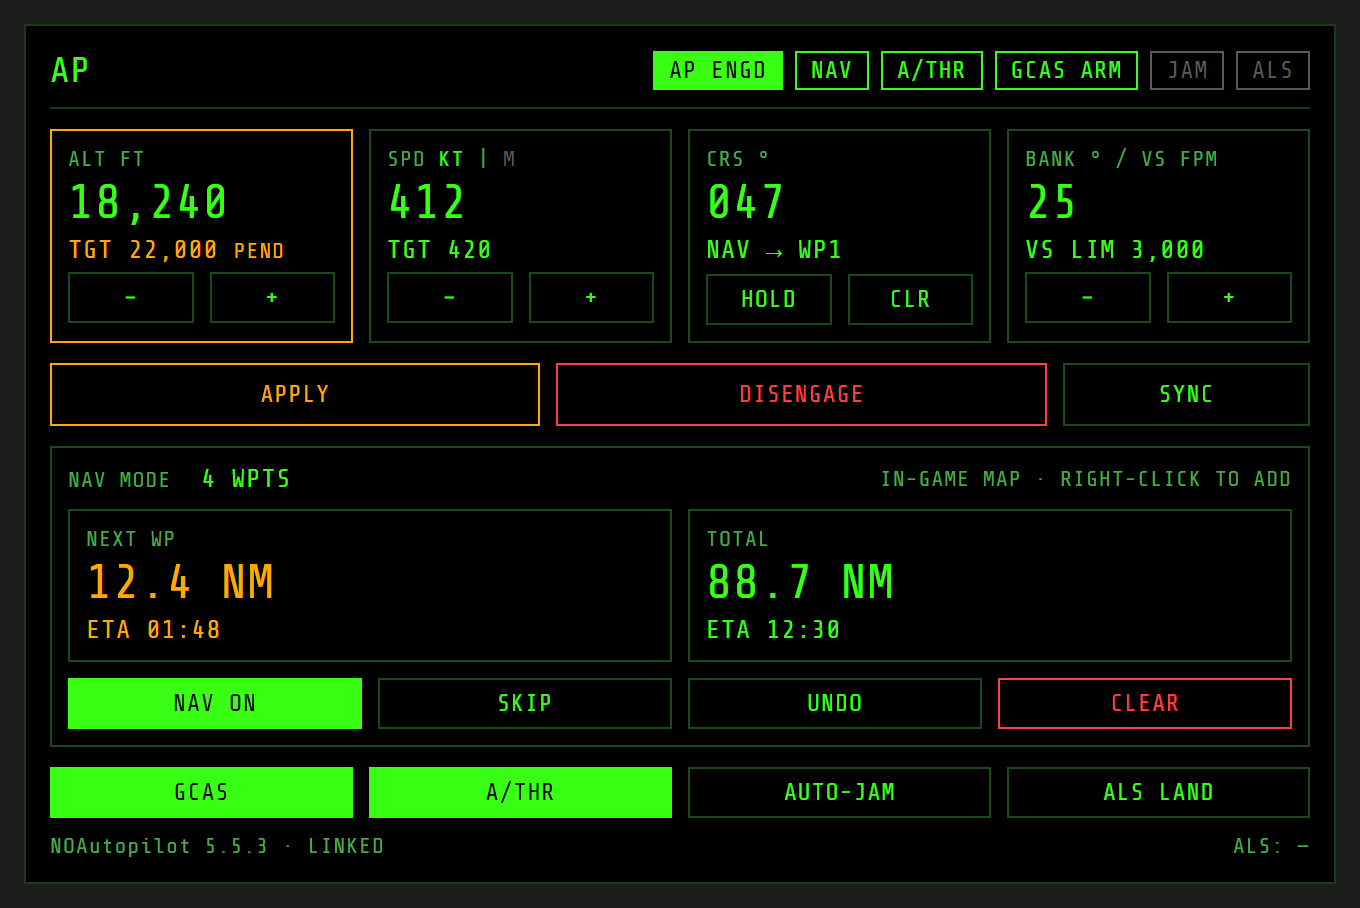
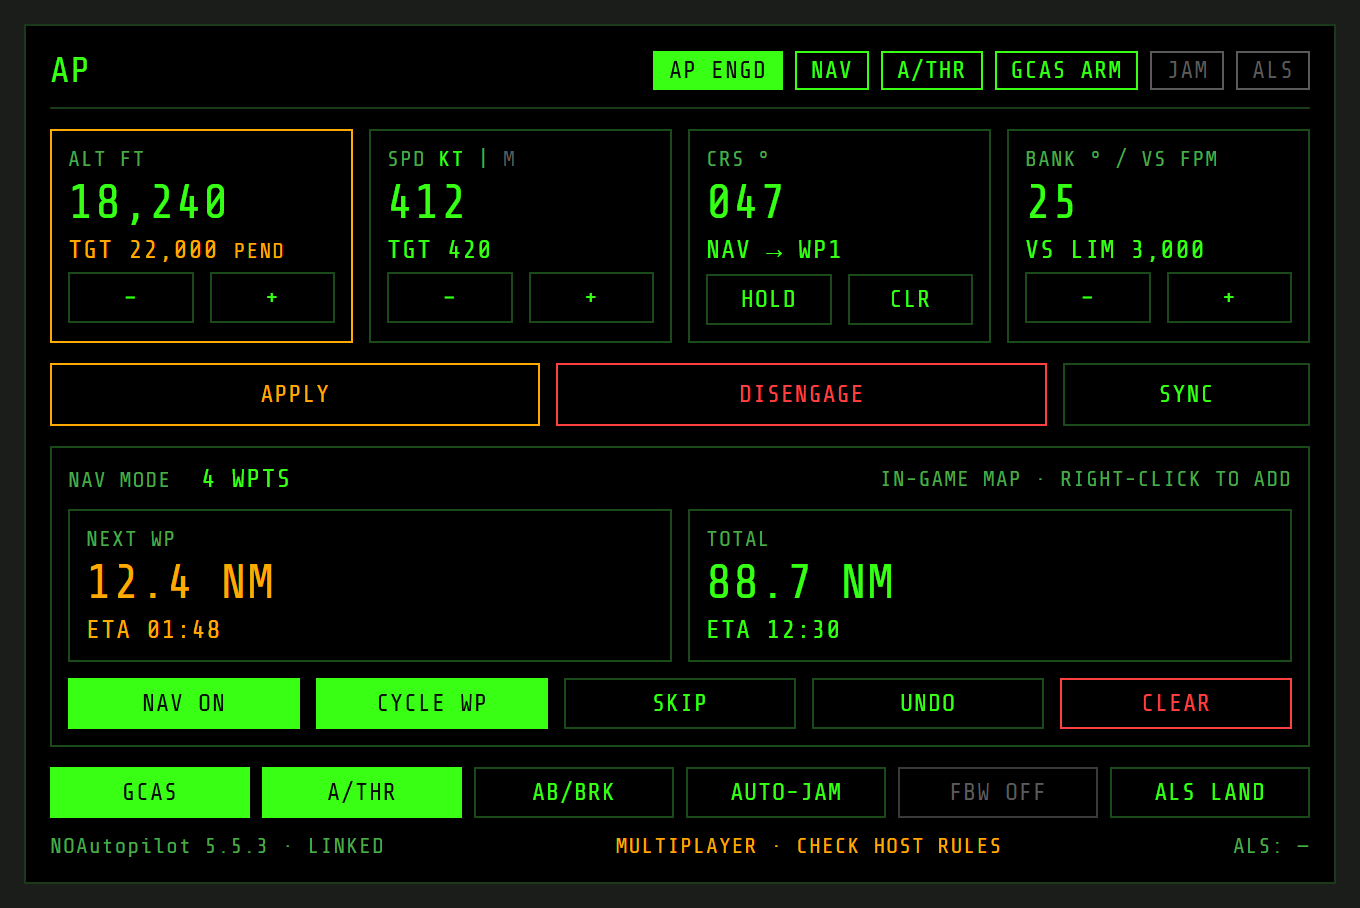
Resolve the plan's open questions and update both mockups

diff --git a/docs/noautopilot-plan.md b/docs/noautopilot-plan.md
@@ -57,6 +57,10 @@ the extension still loads when it's absent or has changed shape.
 | Nav mode | `APData.NavEnabled`, `APData.NavQueue` (`List<Vector3>`, global coordinates) | read, write `NavEnabled`, remove entries | 1 |
 | GCAS | `APData.GCASEnabled`, `GCASWarning`, `GCASActive` | read, write `GCASEnabled` | 1 |
 | Auto-jammer | `APData.AutoJammerActive` | read/write | 1 |
+| Afterburner/airbrake for autothrottle | `APData.AllowExtremeThrottle` (F8's `AB0`/`AB1`) | read/write | 1 |
+| FBW disabler | `APData.FBWDisabled`, then `Plugin.UpdateFBWState()` (public static); single player only | read/write | 1 |
+| Cycle wp | `Plugin.NavCycle` (public static `ConfigEntry<bool>`, persisted to NOAutopilot's `.cfg`) | read/write | 1 |
+| Multiplayer check | `Plugin.IsMultiplayer()` (public static) | read | 1 |
 | ALS | `APData.ALSActive`, `ALSStatusText` | read | 1 |
 | Start autoland | `Plugin.StartAutoland()` | **private**, reflection only | 1 |
 | Refresh F8 window and map markers | `Plugin.SyncMenuValues()`, `Plugin.RefreshNavVisuals()` | public static | 1 |
@@ -78,8 +82,8 @@ Two NOAutopilot behaviors shape the design:
 ## Prototype mockups
 
 Early prototypes of the page, one per phase, in NOXMFD's own theme (HUD green, amber for
-pending/selected, Share Tech Mono). Values are illustrative. The two differ only in the middle
-panel: Phase 1 shows NOAutopilot's own nav mode, Phase 2 replaces it with the coupled WPT route.
+pending/selected, Share Tech Mono). Values are illustrative, and both show a multiplayer session
+(FBW OFF greyed out, host-rules note in the footer). The two differ only in the middle panel: Phase 1 shows NOAutopilot's own nav mode, Phase 2 replaces it with the coupled WPT route.
 Each is shown under its phase below.
 
 ## Phase 1 — AP page
@@ -103,12 +107,20 @@ Page layout, top to bottom:
    copies the F8 button's side effects. SYNC loads current altitude, speed and course into the
    pending targets.
 4. **Nav mode panel.** NOAutopilot's own waypoint queue, as placed on the in-game map: NAV on/off,
-   waypoint count, distance and ETA to the next point, total distance, and SKIP (drop the next
-   point), UNDO (drop the last point), and CLEAR, matching the F8 window's buttons. Points are still
-   placed on the in-game map through NOAutopilot itself.
-5. **System toggles.** GCAS, A/THR, AUTO-JAM, ALS LAND (two-tap confirm), and the ALS status text.
+   CYCLE WP, waypoint count, distance and ETA to the next point, total distance, and SKIP (drop the
+   next point), UNDO (drop the last point), and CLEAR, matching the F8 window's controls. Points are
+   still placed on the in-game map through NOAutopilot itself. CYCLE WP writes NOAutopilot's own
+   config entry, so it persists exactly as it does from F8.
+5. **System toggles.** GCAS, A/THR, AB/BRK (let the autothrottle use afterburner and airbrake),
+   AUTO-JAM, FBW OFF, and ALS LAND (two-tap confirm), plus the ALS status text. FBW OFF is greyed
+   out in multiplayer, where NOAutopilot refuses it.
 6. **Footer.** NOAutopilot version and link state: `LINKED`, `NOT INSTALLED`, or `INCOMPATIBLE`.
-   With NOAutopilot missing or incompatible, the controls are greyed out and the page says why.
+   With NOAutopilot missing or incompatible, the controls are greyed out and the page says why. In
+   a multiplayer session, a `MULTIPLAYER · CHECK HOST RULES` note sits in the footer.
+
+The page works alongside NOAutopilot's F8 window with no lock or notice: both edit the same
+`APData`, the page always shows the live values, and the page calls `SyncMenuValues()` after each
+write so F8 shows the page's edits too.
 
 Suggested build order within Phase 1:
 
@@ -116,15 +128,16 @@ Suggested build order within Phase 1:
    showing annunciators, current/target values, nav queue state, and link state. This proves
    reflection against the live game with no way to affect the aircraft.
 2. **Controls.** Target tiles with pending/APPLY, engage/disengage, SYNC, KT/M, the nav panel's
-   buttons, the GCAS/A/THR/AUTO-JAM toggles, and ALS LAND through the private `StartAutoland`.
+   buttons and CYCLE WP, the GCAS/A/THR/AB/BRK/AUTO-JAM/FBW OFF toggles, and ALS LAND through the
+   private `StartAutoland`.
 
 ## Phase 2 — NOXMFD integration
 
 ![AP page mockup, Phase 2](images/ap-page-mockup-phase2.png)
 
-Goal: tie the autopilot into NOXMFD's own features. The first item is flying NOXMFD's WPT route;
-the page's nav panel gains the WPT route view and COUPLE/DIRECT-TO/LOOP/DECOUPLE from the mockup.
-Further integration candidates are open (see [Open questions](#open-questions)).
+Goal: tie the autopilot into NOXMFD's own features. Two items are planned: flying NOXMFD's WPT
+route (the page's nav panel gains the WPT route view and COUPLE/DIRECT-TO/LOOP/DECOUPLE from the
+mockup), and drawing NOAutopilot's own nav queue on NOXMFD's MAP.
 
 ### Route coupling
 
@@ -142,13 +155,27 @@ sync.
   the queue length also handles "Cycle wp" re-appending.
 - **Direct-to**: `SetActiveRouteNextIndex(i)`, then the re-sync does the rest. The HUD waypoint cue
   and WPT page follow automatically.
-- **Loop**: when NOXMFD reports the route complete (`NextIndex == Points.Length`) with LOOP on,
-  `SetActiveRouteNextIndex(0)`.
+- **Loop**: while coupled, the nav panel's CYCLE WP toggle becomes LOOP. When NOXMFD reports the
+  route complete (`NextIndex == Points.Length`) with LOOP on, the extension calls
+  `SetActiveRouteNextIndex(0)`. NOAutopilot's own Cycle wp is held off while coupled and restored
+  to the pilot's setting on decouple and on plugin shutdown, since `Plugin.NavCycle` persists to
+  NOAutopilot's config file.
 - **Decouple**: clear `NavQueue`, set `NavEnabled = false`, and leave NOXMFD's route alone.
 - **Altitude**: NOXMFD waypoints have no altitude. Queue points take the current target altitude
   (`TargetAlt`, or current altitude if none), and nav steers laterally only.
 - **Map edits**: while coupled, a right-click waypoint on NOAutopilot's map is overwritten on the
   next re-sync. The page shows this (decision 3).
+
+### Nav queue on NOXMFD's MAP
+
+When not coupled, NOAutopilot flies waypoints placed on the in-game map, which NOXMFD's MAP page
+doesn't show. The extension publishes the queue (points in global coordinates, next-point index,
+Cycle wp) so MAP can draw it as a route line with the next point highlighted. While coupled, the
+queue is the WPT route MAP already draws, so the overlay is hidden.
+
+This needs a new NOXMFD core surface: extensions can recolor or highlight units on MAP today, but
+can't draw their own points or lines. The API shape (for example
+`Api.SetMapOverlay(id, points, style)`) is designed in NOXMFD when this item starts.
 
 ## Architecture
 
@@ -163,10 +190,11 @@ sync.
   extension command handler, which NOXMFD already runs on the main thread. Nothing touches
   `APData` from the HTTP worker.
 - **Telemetry**: `Api.PublishSlice("noap", json)` at NOXMFD's 10 Hz frame rate. The payload
-  carries link state, annunciators, current/target values, and nav queue state. Phase 2 adds
-  coupling state and the route snapshot with its revision.
+  carries link state, annunciators, current/target values, nav queue state, and the multiplayer
+  flag. Phase 2 adds coupling state and the route snapshot with its revision.
 - **Commands**: one flat JSON envelope `{cmd, …}` posted to `/ext/noap/command`. Phase 1: `apply`,
-  `engage`, `disengage`, `sync`, `toggle`, `nav-skip`, `nav-undo`, `nav-clear`, `als`. Phase 2 adds
+  `engage`, `disengage`, `sync`, `toggle` (`gcas`, `athr`, `abbrk`, `jam`, `fbw`, `nav`,
+  `cycle`), `nav-skip`, `nav-undo`, `nav-clear`, `als`. Phase 2 adds
   `couple`, `decouple`, `direct-to`, `loop`. The handler validates every value at this trust
   boundary (finite numbers, sane ranges, known commands) before writing anything to `APData`.
 - **Page**: `src/web/noap.{html,css,js}`, embedded in the DLL, reusing NOXMFD's
@@ -178,38 +206,34 @@ sync.
 1. **Extension, not NOXMFD core.** NOXMFD stays free of integration-specific code, like the ATC and
    TAC extensions. The only core change was the generic route API, which any autopilot or
    navigation extension can use.
-2. **Reflection, no compile-time reference.** NOAutopilot is optional, often banned by hosts, and
-   its author calls the code due for a rewrite. Reflection with a logged `INCOMPATIBLE` state keeps
-   NOXMFD and the page working when NOAutopilot is missing or changes.
+2. **Reflection, no compile-time reference, no upstream API request.** NOAutopilot is optional,
+   often banned by hosts, and its author calls the code due for a rewrite. Reflection with a logged
+   `INCOMPATIBLE` state keeps NOXMFD and the page working when NOAutopilot is missing or changes.
+   Reflection is the long-term approach; the extension doesn't ask NOAutopilot's author for an API.
 3. **NOXMFD owns route progress (Phase 2).** Two independent sequencers would drift apart
    (2,500 m/passed versus 1,000 m, plus "Cycle wp"). NOXMFD's `RouteStore` stays the single
-   authority, and the extension turns NOAutopilot's pops into `SetActiveRouteNextIndex` calls. LOOP
-   is the extension's, not NOAutopilot's "Cycle wp".
+   authority, and the extension turns NOAutopilot's pops into `SetActiveRouteNextIndex` calls. While
+   coupled, the CYCLE WP toggle drives the extension's LOOP and NOAutopilot's Cycle wp is held off,
+   so there is one loop control and no two loop features fighting.
 4. **Click/touch only.** No new keybinds. NOAutopilot already has its own, and they keep working
    alongside the page.
 5. **Apply-to-commit.** Target edits are pending until APPLY, matching the F8 window and keeping
    aircraft response predictable.
-6. **Setup stays in F1.** PID tuning, minimap settings, and the FBW disabler are configuration, not
+6. **F8 parity, setup stays in F1.** Every control in the F8 window is on the page, including
+   CYCLE WP, AB/BRK, and the FBW disabler. PID tuning and minimap settings are configuration, not
    in-flight controls, and stay in BepInEx's ConfigurationManager.
 7. **No fuel page here.** Fuel time/range doesn't depend on NOAutopilot. If it's wanted, it
    belongs in NOXMFD itself as a separate ticket.
 8. **Phase 1 is NOAutopilot-only.** The first release is a UI for features NOAutopilot already has,
    so it can ship and be tested on its own before any NOXMFD data drives the autopilot.
+9. **No lock against F8.** The page and the F8 window both stay usable. Both write the same
+   `APData`, so neither can hold a stale copy.
+10. **Multiplayer note, not a warning.** A footer note in multiplayer sessions reminds the pilot to
+    check host rules, without a banner or anything that blocks the page.
 
 ## Open questions
 
-- Ask NOAutopilot's author (qwerty1423) for a small stable API, such as public `Engage`/`Apply`/
-  `StartAutoland` methods, instead of relying on reflection into `APData` and a private method?
-- Should the page also run while NOAutopilot's F8 window is open, or show a notice that both can
-  edit the same targets?
-- Phase 1: should the page also mirror the F8 window's remaining toggles ("Cycle wp", the
-  autothrottle's extreme-throttle option, the single-player FBW disabler), or leave them to F8/F1?
-- Phase 2: should COUPLE turn off NOAutopilot's "Cycle wp" for the session, or leave the player's
-  config as it is?
-- Phase 2: which NOXMFD integrations beyond route coupling are wanted (for example an AP cue on
-  NOXMFD's HUD page)?
-- Multiplayer: should the page show a warning banner in multiplayer sessions, given some hosts
-  prohibit NOAutopilot?
+None right now.
 
 ## Out of scope
 

diff --git a/README.md b/README.md
@@ -13,10 +13,11 @@ Planned in two phases:
 
 - **Phase 1 — AP page**: a visible UI for NOAutopilot's existing features. Status annunciators,
   current and target altitude, speed, course, and bank, apply and engage/disengage, NOAutopilot's
-  own nav mode, and the GCAS, autothrottle, auto-jammer, and autoland toggles. Click/touch only;
+  own nav mode, and the GCAS, autothrottle, auto-jammer, autoland, afterburner/airbrake, and
+  single-player FBW toggles, matching everything in NOAutopilot's F8 window. Click/touch only;
   NOAutopilot's own keybinds stay as they are.
-- **Phase 2 — NOXMFD integration**: starting with flying NOXMFD's WPT route, with direct-to and
-  loop.
+- **Phase 2 — NOXMFD integration**: flying NOXMFD's WPT route (with direct-to and loop), and
+  drawing NOAutopilot's own nav queue on NOXMFD's MAP.
 
 Built entirely through NOXMFD's public extension API (see NOXMFD's
 [`EXTENSIONS.md`](https://github.com/roke77/NOXMFD/blob/main/EXTENSIONS.md)). This repo does
